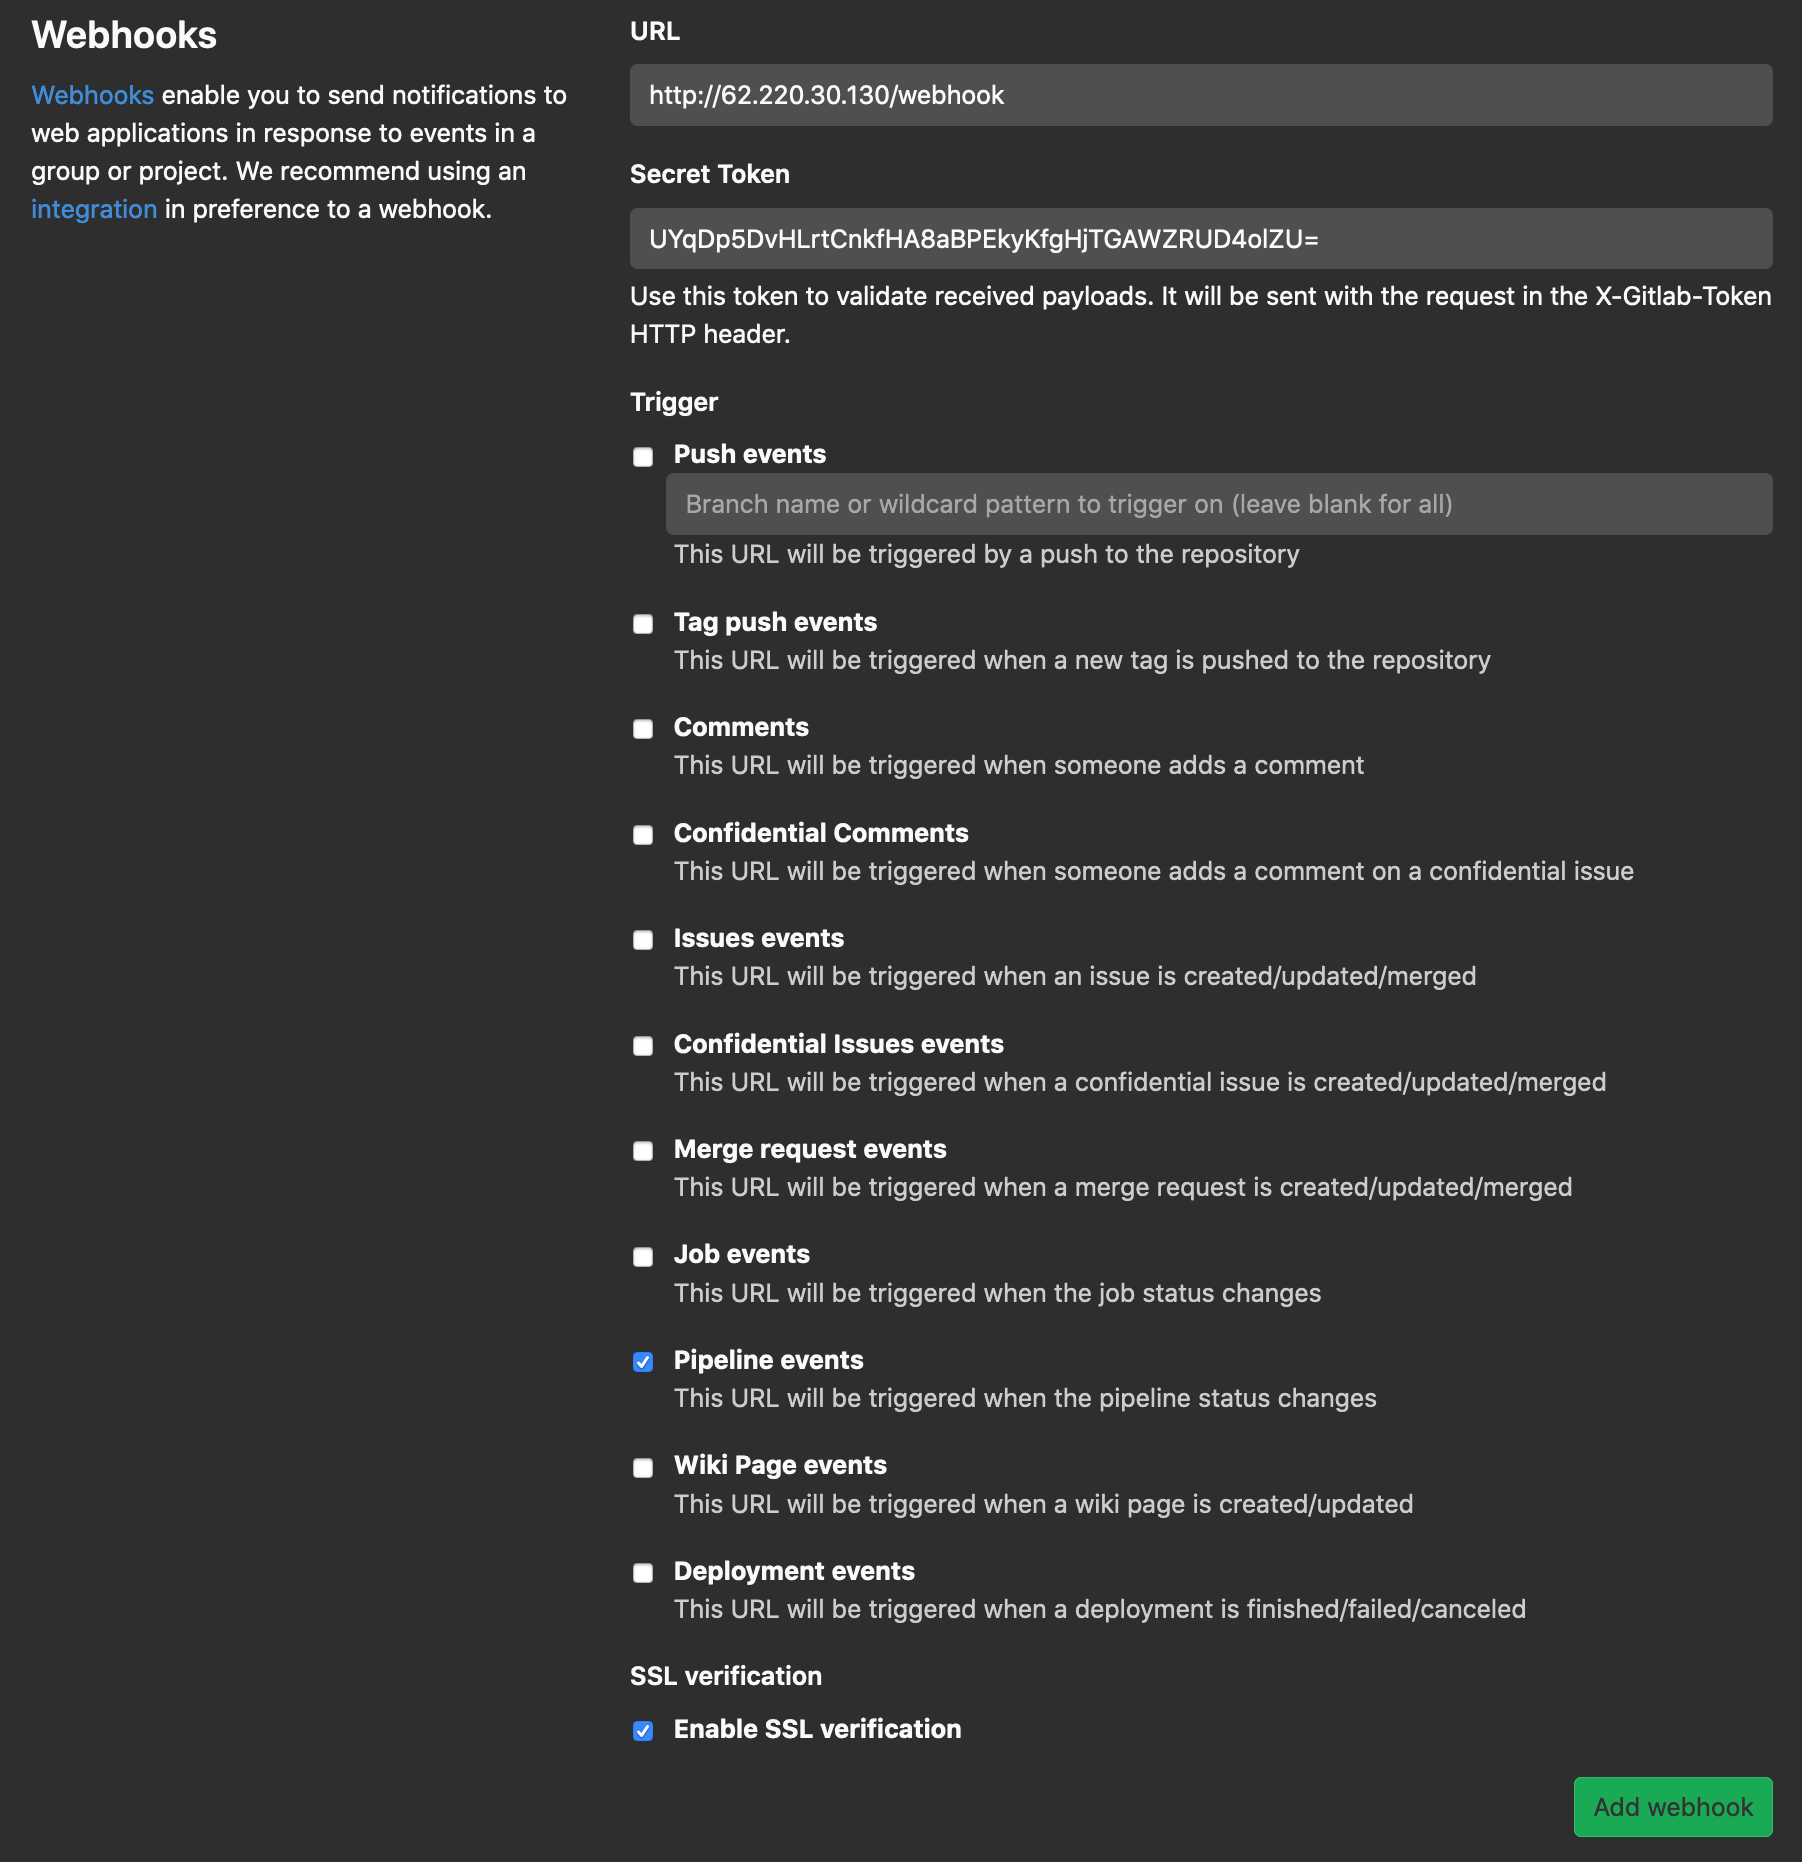
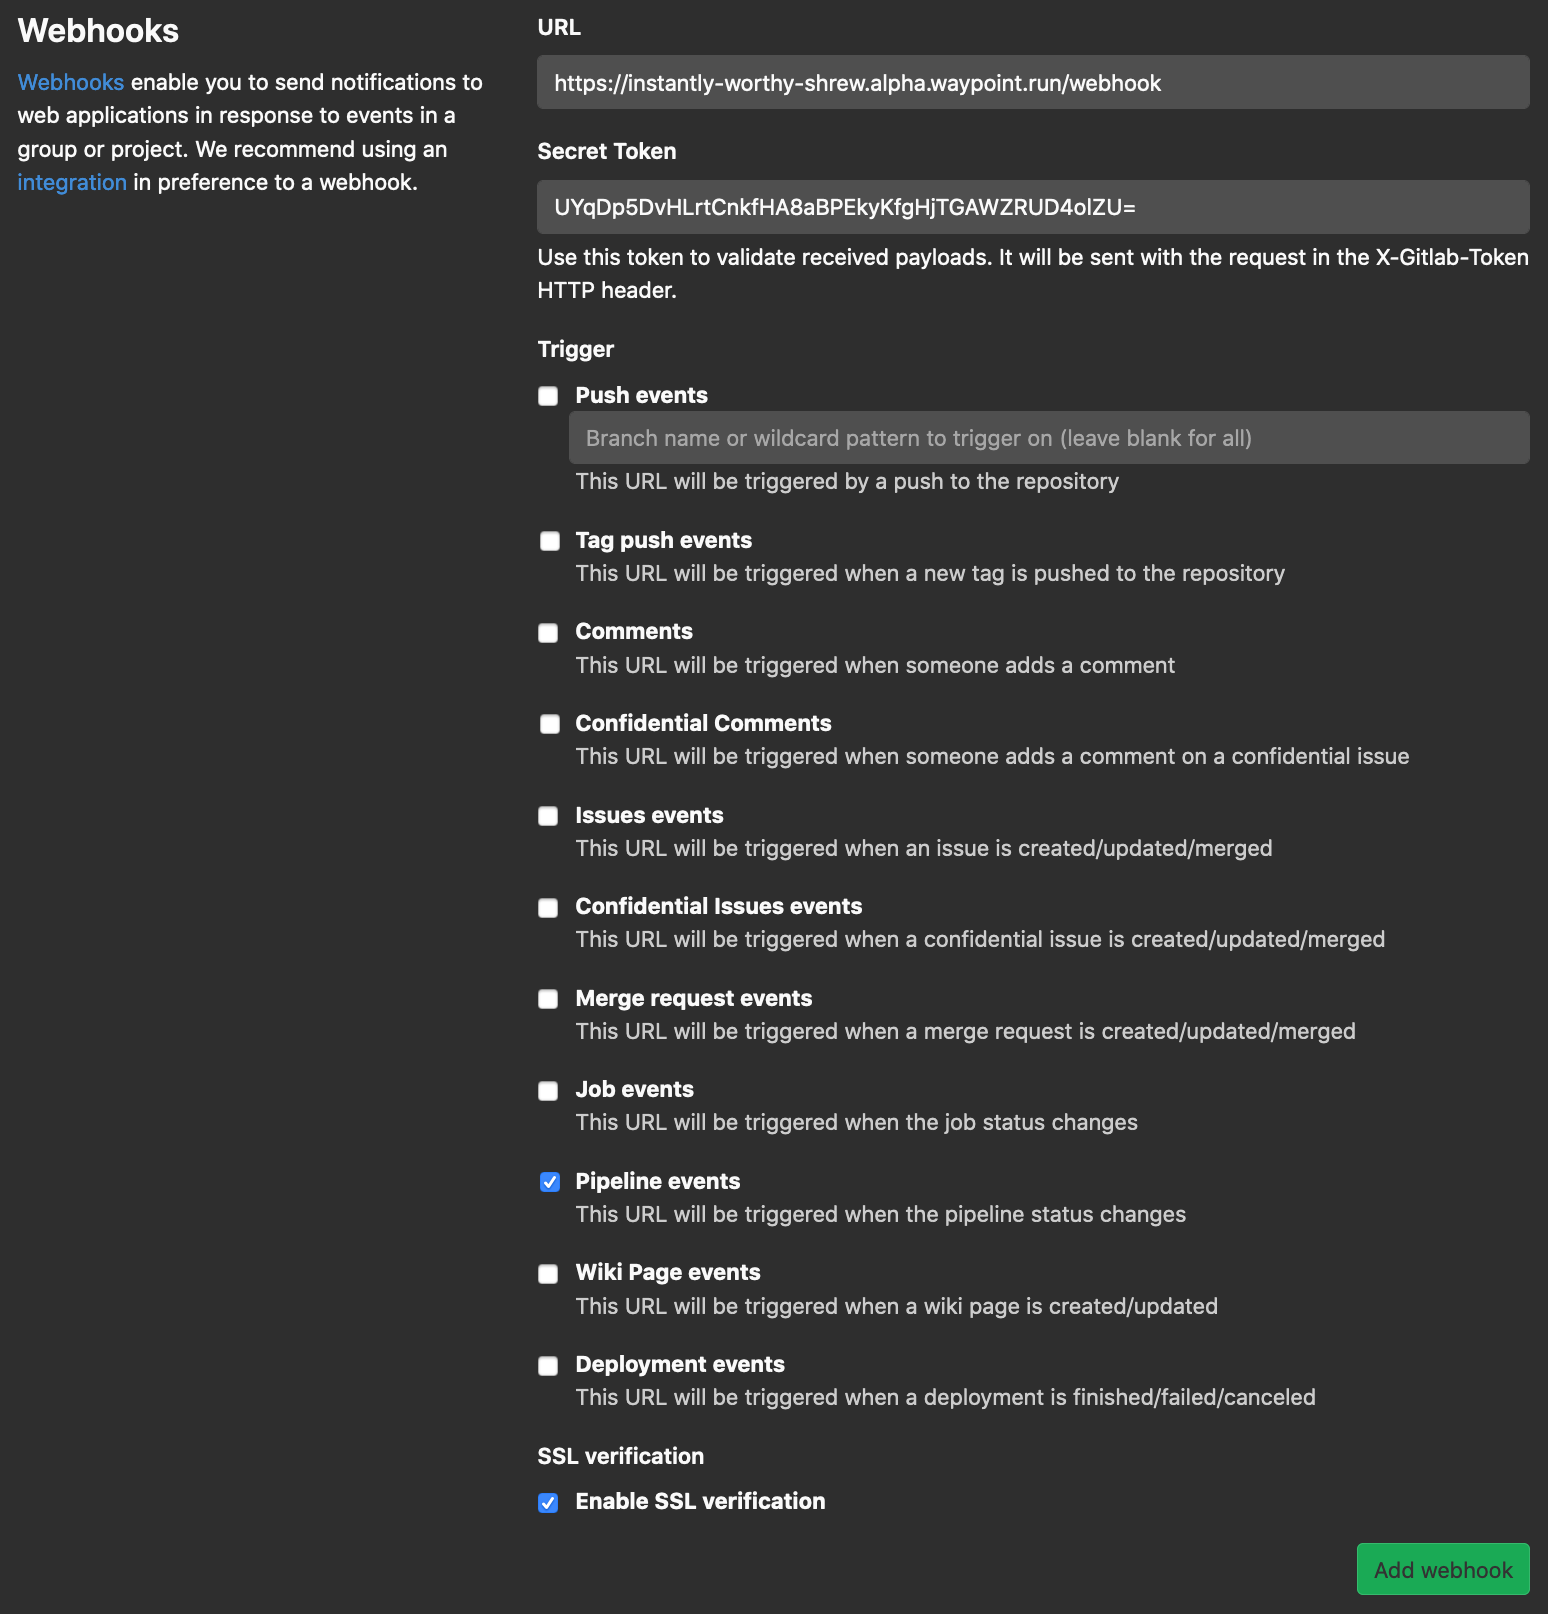
examples/webhooks: replaced inlets with hashicorp waypoint

diff --git a/examples/webhooks/README.md b/examples/webhooks/README.md
@@ -4,15 +4,12 @@ This is a more advanced setup for users looking to reduce the amount of requests
 
 ## Requirements
 
-They include the ones from the [quickstart example](../quickstart/README.md):
-
 - A personal access token on [gitlab.com](https://docs.gitlab.com/ee/user/profile/personal_access_tokens.html) (or your own instance) with `read_repository` scope
 - [git](https://git-scm.com/) & [docker-compose](https://docs.docker.com/compose/)
-
-For the specific usecase of webhooks, you will also need:
-  
 - GitLab [webhook configuration](https://docs.gitlab.com/ee/user/project/integrations/webhooks.html) privileges/capabilities on group(s) or project(s) you want to monitor.
-- Connectivity from GitLab rails processes towards the exporter's http endpoint. If you don't because you want to try it from your laptop no worries, I cover this out in [this paragraph](#Obtain-network-connectivity-between-GitLab-and-the-exporter)
+- For this use case, we will need network connectivity from the GitLab rails processes towards the exporter's http endpoint. I assume that you will want to try this out for your laptop but don't worry, it should still be able to work effortlessly thanks to [Hashicorp Waypoint](https://www.waypointproject.io/)!
+
+/!\ This implementation is for test/example only as it is not recommended to leverage **waypoint.run** endpoints for production purposes.
 
 ## 🚀
 
@@ -33,74 +30,55 @@ For the specific usecase of webhooks, you will also need:
 # Configure a project on which you are authorized to configure webhooks
 ~$ sed -i 's;<your_project_path_with_namespace>;my_group/my_project' gitlab-ci-pipelines-exporter/config.yml
 
-# Start gitlab-ci-pipelines-exporter container
-~$ docker-compose up -d
-Creating network "webhooks_default" with driver "bridge"
-Creating webhooks_gitlab-ci-pipelines-exporter-1 ... done
+# Start gitlab-ci-pipelines-exporter container through Hashicorp Waypoint
+~$ docker pull hashicorp/waypoint:latest
+[..]
+~$ waypoint install --platform=docker -accept-tos
+[..]
+~$ waypoint init
+[..]
+~$ waypoint up
+» Building...
+✓ Initializing Docker client...
+✓ Building image...
+ │ Successfully built 4b5948a15ca3
+ │ Successfully tagged waypoint.local/exporter:latest
+✓ Injecting Waypoint Entrypoint...
+
+» Deploying...
+✓ Setting up waypoint network
+✓ Starting container
+✓ App deployed as container: exporter-01EMQ4Q1SYZ4PV8CRD4D35QAKW
+
+» Releasing...
+
+The deploy was successful! A Waypoint deployment URL is shown below. This
+can be used internally to check your deployment and is not meant for external
+traffic. You can manage this hostname using "waypoint hostname."
+
+           URL: https://instantly-worthy-shrew.alpha.waypoint.run
+Deployment URL: https://instantly-worthy-shrew--v1.waypoint.run
 ```
 
-### Obtain network connectivity between GitLab and the exporter
+## Attempt to reach your exporter http endpoint from the public address
 
-You now need to configure the project (or the group it belongs to) to post webhooks to the exporter.
-
-But first, you need connectivity from GitLab to the exporter endpoint.
-
-In a **self-hosted scenario** is it likely that you will get native connectivity on your internal network loop.
-
-If you are **using gitlab.com**, you will need to securely expose the exporter endpoint over the internet 🌍
-
-As this example is presumably going to be attempted from a laptop onto gitlab.com, I will showcase how to easily get a non-secure access between the two leveraging the very great [inlets](https://github.com/inlets/inlets) solution from [Alex Ellis](https://twitter.com/alexellisuk) 💚. Of course, if you already have connectivity, you can skip this step.
-
-### Inlets configuration
-
-You will need a working account with any of these cloud providers:
-
-- `AWS`
-- `Azure`
-- `Civo.com`
-- `DigitalOcean`
-- `GCP`
-- `Hetzner`
-- `Linode`
-- `Packet`
-- `Scaleway`
-- `Vultr`
-
-You will also need both [inlets](https://github.com/inlets/inlets#get-inlets) and [inletsctl](https://github.com/inlets/inletsctl#install-inletsctl) binaries
-
-Once you are all set, create your "exit" endpoint:
+After a few seconds, you should be able to query the URL you got from `waypoint up`
 
 ```bash
-# Example using DigitalOcean
-~$ inletsctl create -p digitalocean -a <digital_ocean_token>
-[..]
-inlets OSS (2.7.4) exit-server summary:
-  IP: 62.220.30.130
-  Auth-token: yOujNvJ75vbZW3wmWfB2EkCobHlCI3wo4RZVRfkY5PaxVrKMSi1bUtm9rUwTTW6t
-
-Command:
-  export UPSTREAM=http://127.0.0.1:8000
-  inlets client --remote "ws://62.220.30.130:8080" \
[1 lines of base64/hex data omitted]
-	--upstream $UPSTREAM
-
-## Wait a few seconds for the instance to boot and then copy-paste the command
-~$ export UPSTREAM=http://127.0.0.1:8000
-~$ inlets client --remote "ws://62.220.30.130:8080" \
[1 lines of base64/hex data omitted]
---upstream $UPSTREAM
-
-## Attempt to reach your exporter http endpoint from the public address
-~$ curl -i http://62.220.30.130/health/ready
+~$ curl -i https://instantly-worthy-shrew.alpha.waypoint.run/health/ready
 HTTP/1.1 200 OK
-Content-Length: 3
+Date: Thu, 15 Oct 2020 22:18:27 GMT
 Content-Type: application/json; charset=utf-8
-Date: Fri, 09 Oct 2020 13:57:23 GMT
+Content-Length: 3
+Connection: keep-alive
+Server-Timing: resolve;dur=0.210207,lookup;dur=0.776248,request;dur=0.118955,response-header;dur=668.705608,connect-local;dur=0.576448
+X-Horizon-Endpoint: 01EMMNFHRH0EJ76PAQEQD567SE
+X-Horizon-Latency: 670.412114ms
 
 {}
 ```
 
-gitlab.com should be able to reach http://62.220.30.130/webhook now! 🎉
+gitlab.com should also be able to reach https://instantly-worthy-shrew.alpha.waypoint.run/webhook now! 🎉
 
 ### Configure GitLab group(s) or project(s)
 
@@ -114,7 +92,7 @@ UYqDp5DvHLrtCnkfHA8aBPEkyKfgHjTGAWZRUD4olZU=
 
 Go onto the project's configuration page and configure a new webhook using:
 
-- **URL**: `http://62.220.30.130/webhook`
+- **URL**: `https://instantly-worthy-shrew.alpha.waypoint.run/webhook`
 - **Secret Token**: `UYqDp5DvHLrtCnkfHA8aBPEkyKfgHjTGAWZRUD4olZU=`
 - Untick `Push events` and tick `Pipeline events`
 - Hit the `Add webhook` button
@@ -128,7 +106,7 @@ You can then trigger a manual test:
 If the last pipeline which ran on your project is on a ref that is configured to be exported, you will see the following logs:
 
 ```bash
-~$ docker-compose logs -f
+~$ waypoint logs
 [..]
 DEBU[2020-10-09T15:03:49+01:00] webhook request         ip-address="127.0.0.1:62838" user-agent=
 [..]
@@ -137,8 +115,5 @@ DEBU[2020-10-09T15:03:49+01:00] webhook request         ip-address="127.0.0.1:62
 ## Cleanup
 
 ```bash
-# Delete the container
-~$ docker-compose down
-# Delete the inlets exit node
-~$ docker-compose down
+~$ waypoint destroy
 ```
